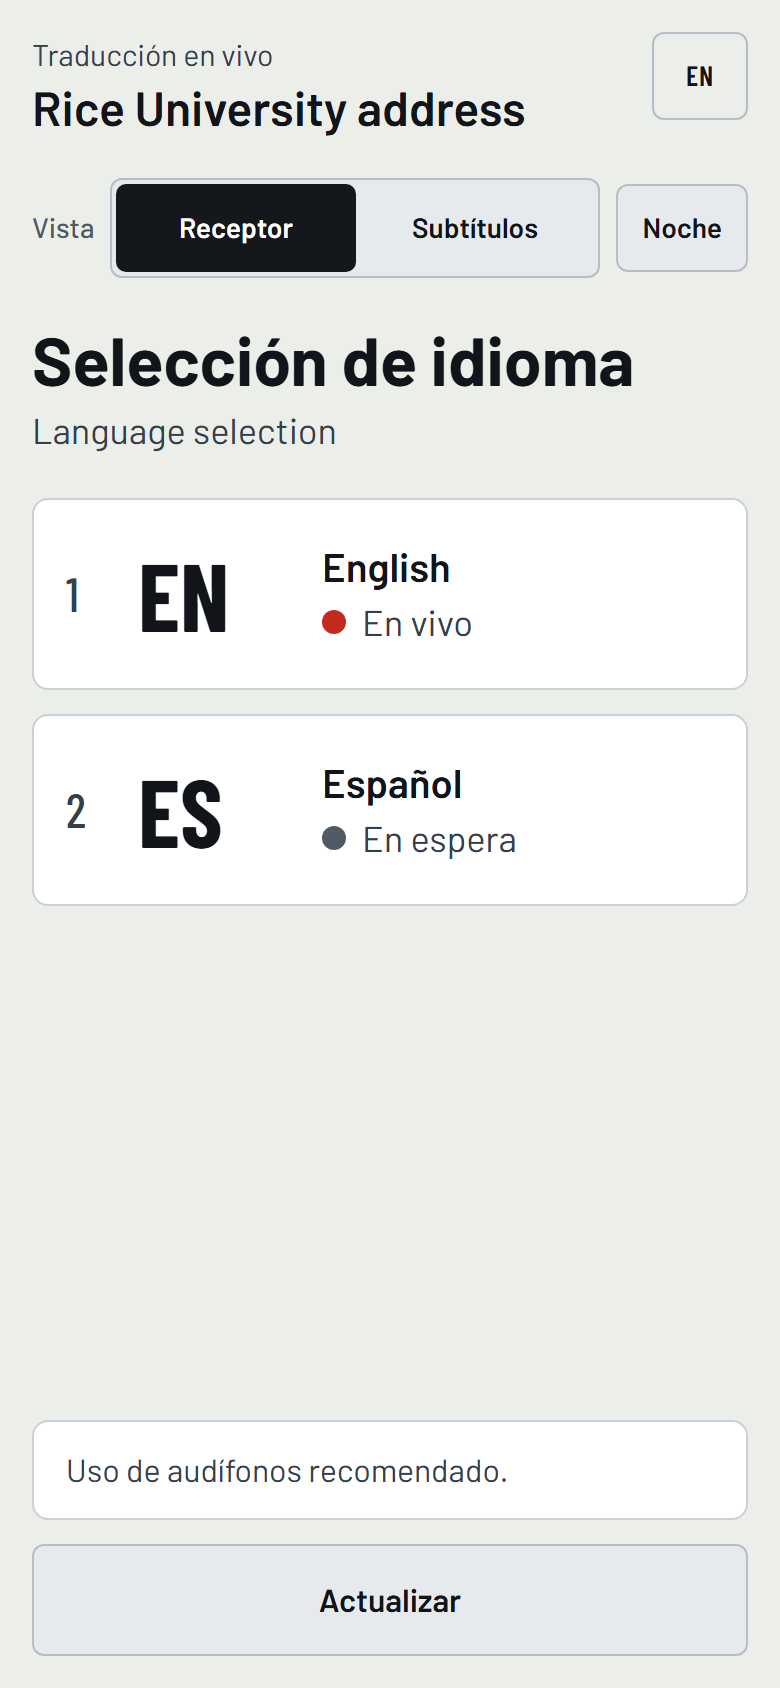
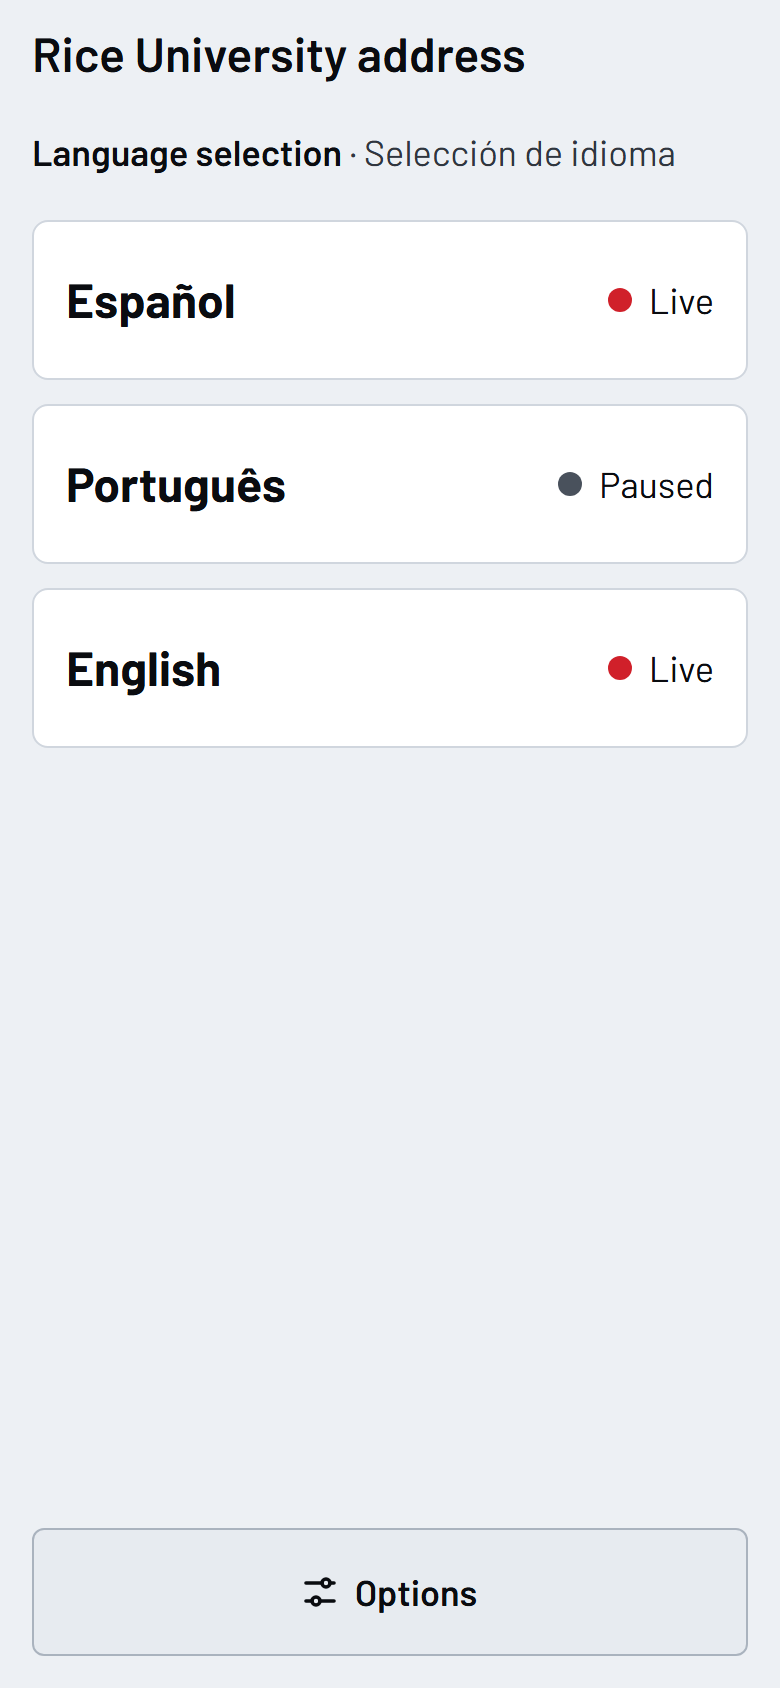
Docs: screenshots with the Andén palette and the simplified layouts
New captures of the operator Desk and Rows (Night) views, the listener
Captions and Receiver views, a network drop, the event page and the
replay in Night. The README table and captions follow them, and notes
the base path for serving the replay under a sub-path.

diff --git a/README.md b/README.md
@@ -12,7 +12,7 @@ The app has three surfaces.
 
 Every surface has a light theme (default) and a **Night** theme for dark rooms. Theme and view are remembered per device.
 
-**Replay** (`/replay` and `/replay/operator`): a recorded 1962 speech with translated captions and AI-generated voices in Spanish and Portuguese, played through the same listener and operator views. It needs no keys and calls no server route, so it also works from a static export. Credits and licence are in `public/replay/ATTRIBUTION.txt`.
+**Replay** (`/replay` and `/replay/operator`): a recorded 1962 speech with translated captions and AI-generated voices in Spanish and Portuguese, played through the same listener and operator views. It needs no keys and calls no server route, so it also works from a static export; for a sub-path, set `NEXT_PUBLIC_BASE_PATH` (for example `/demos/translation`) at build time. Credits and licence are in `public/replay/ATTRIBUTION.txt`.
 
 Translation runs on OpenAI's `gpt-realtime-translate` model. The translated audio is fanned out through a self-hosted [LiveKit](https://livekit.io) server, so the translation cost does not grow with the number of listeners.
 
@@ -21,36 +21,40 @@ Translation runs on OpenAI's `gpt-realtime-translate` model. The translated audi
 <table>
   <tr>
     <td colspan="3">
-      <img src="docs/screenshots/operator-desk.png" alt="Operator dashboard, Desk view: input strip, two language strips, add language, listener QR code">
-      <p align="center"><sub>Operator, Desk view: the input and each language as a channel strip, the event QR code and what listeners see.</sub></p>
+      <img src="docs/screenshots/operator-desk.png" alt="Operator dashboard, Desk view: input strip, four language strips, listener QR code, transcript lanes">
+      <p align="center"><sub>Operator, Desk view: the input and each language as a channel strip, the event QR code, the source and translated transcript.</sub></p>
     </td>
   </tr>
   <tr>
     <td colspan="3">
       <img src="docs/screenshots/operator-rows-night.png" alt="Operator dashboard, Rows view, Night theme">
-      <p align="center"><sub>Operator, Rows view, Night theme.</sub></p>
+      <p align="center"><sub>Operator, Rows view, Night theme: one row per channel, the alert slot and the transcript at reading size.</sub></p>
     </td>
   </tr>
   <tr>
     <td width="33%">
-      <img src="docs/screenshots/event-page.png" alt="Event page with the live languages">
+      <img src="docs/screenshots/listener-captions.png" alt="Listener, Captions view: event title, language button, captions, status line, Mute and Options">
+      <p align="center"><sub>Listener, Captions view.</sub></p>
+    </td>
+    <td width="33%">
+      <img src="docs/screenshots/listener-receiver.png" alt="Listener, Receiver view: language code, level meter and the last caption lines">
+      <p align="center"><sub>Listener, Receiver view.</sub></p>
+    </td>
+    <td width="33%">
+      <img src="docs/screenshots/event-page.png" alt="Event page with the languages of the event and their state">
       <p align="center"><sub>Event page: one code, every language.</sub></p>
     </td>
-    <td width="33%">
-      <img src="docs/screenshots/listener-receiver.png" alt="Listener, Receiver view">
-      <p align="center"><sub>Listener, Receiver view (replay).</sub></p>
-    </td>
-    <td width="33%">
-      <img src="docs/screenshots/listener-captions-night.png" alt="Listener, Captions view, Night theme">
-      <p align="center"><sub>Listener, Captions view, Night theme (replay).</sub></p>
-    </td>
   </tr>
   <tr>
     <td width="33%">
-      <img src="docs/screenshots/listener-reconnecting.png" alt="Listener during a network drop">
+      <img src="docs/screenshots/listener-reconnecting.png" alt="Listener during a network drop, with the reconnection attempt on the status line">
       <p align="center"><sub>Network drop: the page rejoins on its own.</sub></p>
     </td>
-    <td colspan="2"></td>
+    <td width="33%">
+      <img src="docs/screenshots/replay-night.png" alt="Replay listener, Night theme, with the play control and position">
+      <p align="center"><sub>Replay, Night theme: the 1962 recording with translated captions and voice.</sub></p>
+    </td>
+    <td width="33%"></td>
   </tr>
 </table>
 
